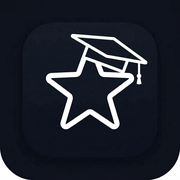
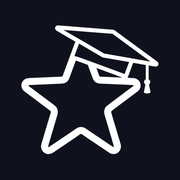
feat(ui-auth): icono PWA full-bleed, branding oficial en web y auto-redireccion a buscador con sesion activa

Changed region(s): [[0.1111, 0.1111, 0.8889, 0.8611], [0.8333, 0.8333, 1.0, 1.0], [0.0, 0.8333, 0.1667, 1.0]]

diff --git a/frontend/src/app/core/auth/auth.service.ts b/frontend/src/app/core/auth/auth.service.ts
@@ -58,16 +58,45 @@ export class AuthService {
     }
   }
 
+  hasActiveSession(): boolean {
+    if (this.currentUser()) return true;
+    if (typeof window !== 'undefined') {
+      if (localStorage.getItem('ratemat_demo_auth') === 'true') return true;
+      if (localStorage.getItem('ratemat_has_session') === 'true') return true;
+      for (let i = 0; i < localStorage.length; i++) {
+        const key = localStorage.key(i);
+        if (key && (key.startsWith('sb-') && key.endsWith('-auth-token'))) {
+          return true;
+        }
+      }
+    }
+    return false;
+  }
+
   private async initSession() {
     if (!this.supabase) return;
     try {
       const { data: { session } } = await this.supabase.auth.getSession();
       this.session.set(session);
       this.currentUser.set(session?.user ?? null);
+      if (typeof window !== 'undefined') {
+        if (session) {
+          localStorage.setItem('ratemat_has_session', 'true');
+        } else {
+          localStorage.removeItem('ratemat_has_session');
+        }
+      }
 
       this.supabase.auth.onAuthStateChange((_event, session) => {
         this.session.set(session);
         this.currentUser.set(session?.user ?? null);
+        if (typeof window !== 'undefined') {
+          if (session) {
+            localStorage.setItem('ratemat_has_session', 'true');
+          } else {
+            localStorage.removeItem('ratemat_has_session');
+          }
+        }
       });
     } catch (err) {
       console.error('Error al obtener sesión de Supabase:', err);
@@ -109,6 +138,7 @@ export class AuthService {
 
     if (typeof window !== 'undefined') {
       localStorage.setItem('ratemat_demo_auth', 'true');
+      localStorage.setItem('ratemat_has_session', 'true');
       localStorage.setItem('rateMat_demoUser', JSON.stringify({
         id: mockUser.id,
         email: mockUser.email,
@@ -149,6 +179,7 @@ export class AuthService {
     }
     if (typeof window !== 'undefined') {
       localStorage.removeItem('ratemat_demo_auth');
+      localStorage.removeItem('ratemat_has_session');
       localStorage.removeItem('rateMat_demoUser');
       localStorage.removeItem('rateMat_termsAccepted_mock');
     }

diff --git a/frontend/src/app/core/layout/layout.component.ts b/frontend/src/app/core/layout/layout.component.ts
@@ -17,9 +17,7 @@ import { AuthService } from '../auth/auth.service';
         <!-- Brand Header -->
         <div class="p-6 pb-4 flex items-center justify-between border-b border-slate-100">
           <a routerLink="/search" class="flex items-center space-x-2.5 group">
-            <div class="w-9 h-9 rounded-xl bg-indigo-600 text-white flex items-center justify-center font-black text-lg shadow-md shadow-indigo-600/20 group-hover:scale-105 transition-transform duration-200">
-              R
-            </div>
+            <img src="logo.png" alt="RateMat" class="w-9 h-9 rounded-xl shadow-md shadow-indigo-600/20 object-cover group-hover:scale-105 transition-transform duration-200">
             <div>
               <span class="text-lg font-extrabold tracking-tight text-slate-900">RateMat</span>
               <span class="block text-[10px] font-bold uppercase tracking-wider text-slate-400">UCAB Caracas</span>
@@ -115,9 +113,7 @@ import { AuthService } from '../auth/auth.service';
         <!-- Mobile Top Header Bar with Quick Logout -->
         <header class="md:hidden sticky top-0 z-30 bg-white/95 backdrop-blur-md border-b border-slate-200/80 px-4 py-2.5 flex items-center justify-between shadow-2xs">
           <a routerLink="/search" class="flex items-center space-x-2">
-            <div class="w-7 h-7 rounded-lg bg-indigo-600 text-white flex items-center justify-center font-black text-xs shadow-2xs">
-              R
-            </div>
+            <img src="logo.png" alt="RateMat" class="w-7 h-7 rounded-lg shadow-2xs object-cover">
             <div>
               <span class="font-extrabold text-sm text-slate-900 tracking-tight leading-none block">RateMat</span>
               <span class="text-[9px] font-bold text-slate-400 uppercase tracking-wider block">UCAB</span>

diff --git a/frontend/src/app/features/landing/landing.component.html b/frontend/src/app/features/landing/landing.component.html
@@ -8,9 +8,7 @@
   <!-- ========================================================================= -->
   <header class="w-full max-w-6xl mx-auto px-4 sm:px-6 py-5 flex items-center justify-between relative z-20">
     <div class="flex items-center space-x-2.5">
-      <div class="w-8 h-8 rounded-xl bg-slate-900 text-white flex items-center justify-center font-black text-sm shadow-sm">
-        R
-      </div>
+      <img src="logo.png" alt="RateMat" class="w-8 h-8 rounded-xl shadow-sm object-cover">
       <div class="flex items-center space-x-2">
         <span class="font-extrabold text-base tracking-tight text-slate-900">RateMat</span>
         <span class="text-[10px] font-bold px-2 py-0.5 rounded-md bg-indigo-50 text-indigo-700 border border-indigo-200">
@@ -629,9 +627,7 @@
   <!-- ========================================================================= -->
   <footer class="w-full max-w-6xl mx-auto px-4 sm:px-6 py-10 border-t border-slate-200/70 text-xs text-slate-500 flex flex-col sm:flex-row items-center justify-between gap-4 relative z-10">
     <div class="flex items-center space-x-2.5">
-      <div class="w-6 h-6 rounded-lg bg-slate-900 text-white flex items-center justify-center font-black text-xs">
-        R
-      </div>
+      <img src="logo.png" alt="RateMat" class="w-6 h-6 rounded-lg shadow-2xs object-cover">
       <span class="font-bold text-slate-800">RateMat UCAB</span>
       <span class="text-slate-300">•</span>
       <span>Plataforma Estudiantil Independiente</span>

diff --git a/frontend/src/app/features/auth/login.component.html b/frontend/src/app/features/auth/login.component.html
@@ -10,9 +10,7 @@
     <!-- Brand & Platform Header -->
     <div class="text-center space-y-3 pb-2 border-b border-slate-100">
       <a routerLink="/" class="inline-flex items-center space-x-2.5 group">
-        <div class="w-10 h-10 rounded-2xl bg-indigo-600 text-white flex items-center justify-center font-black text-xl shadow-md shadow-indigo-600/20 group-hover:scale-105 transition-transform duration-200">
-          R
-        </div>
+        <img src="logo.png" alt="RateMat" class="w-10 h-10 rounded-2xl shadow-md shadow-indigo-600/20 object-cover group-hover:scale-105 transition-transform duration-200">
         <div class="text-left">
           <span class="text-xl font-extrabold tracking-tight text-slate-900 block leading-tight">RateMat</span>
           <span class="text-[10px] font-bold uppercase tracking-wider text-slate-400 block">UCAB Caracas</span>

diff --git a/frontend/src/app/app.routes.ts b/frontend/src/app/app.routes.ts
@@ -5,16 +5,18 @@ import { SearchComponent } from './features/search/search.component';
 import { ProfileComponent } from './features/profile/profile.component';
 import { AdminComponent } from './features/admin/admin.component';
 import { LandingComponent } from './features/landing/landing.component';
-import { authGuard } from './core/auth/auth.guard';
+import { authGuard, landingGuard } from './core/auth/auth.guard';
 
 export const routes: Routes = [
   {
     path: '',
-    component: LandingComponent
+    component: LandingComponent,
+    canActivate: [landingGuard]
   },
   {
     path: 'login',
-    loadComponent: () => import('./features/auth/login.component').then(m => m.LoginComponent)
+    loadComponent: () => import('./features/auth/login.component').then(m => m.LoginComponent),
+    canActivate: [landingGuard]
   },
   {
     path: '',

diff --git a/frontend/src/app/core/auth/auth.guard.ts b/frontend/src/app/core/auth/auth.guard.ts
@@ -6,10 +6,22 @@ export const authGuard: CanActivateFn = (route, state) => {
   const authService = inject(AuthService);
   const router = inject(Router);
 
-  if (authService.currentUser()) {
+  if (authService.currentUser() || authService.hasActiveSession()) {
     return true;
   }
 
-  // Redirigir a profile o login si no está autenticado
+  // Redirigir a landing si no está autenticado
   return router.parseUrl('/');
+};
+
+export const landingGuard: CanActivateFn = (route, state) => {
+  const authService = inject(AuthService);
+  const router = inject(Router);
+
+  // Si el usuario ya inició sesión previamente o tiene sesión activa, va directo al buscador
+  if (authService.hasActiveSession()) {
+    return router.parseUrl('/search');
+  }
+
+  return true;
 };
